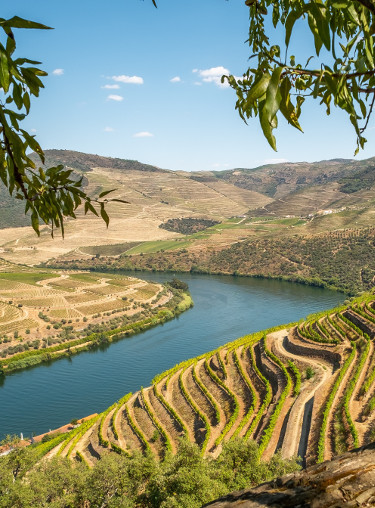
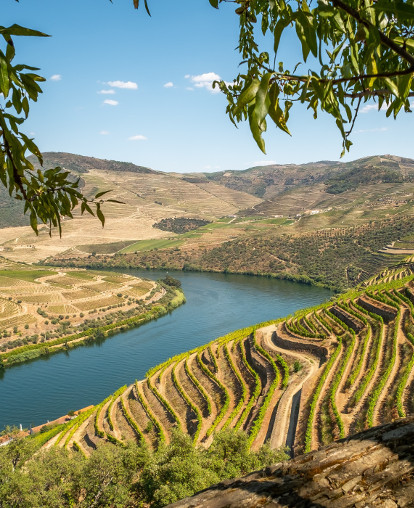
Fixing backgroung picture for mobile.

diff --git a/style.css b/style.css
@@ -10,7 +10,7 @@ body {
 header {
   top: 0px;
   left: 0px;
-  width: 375px;
+  width: 100%;
   height: 508px;
   border: 1px solid #707070;
   background-color: rgba(23, 3, 3, 0.26);
